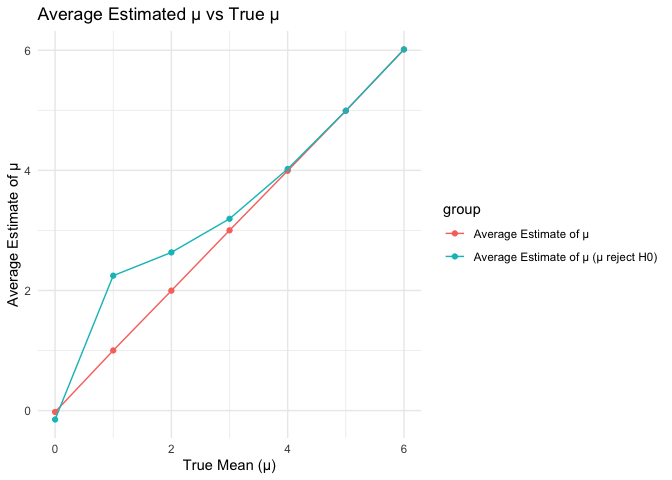
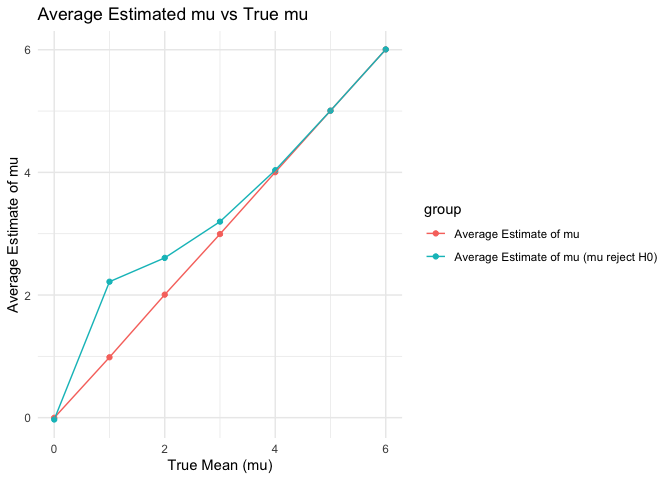
update

diff --git a/p8105_hw5_jc6422.md b/p8105_hw5_jc6422.md
@@ -37,16 +37,16 @@ results
     ## # A tibble: 49 × 2
     ##    group_size probability
     ##         <int>       <dbl>
-    ##  1          2      0.0034
-    ##  2          3      0.0072
-    ##  3          4      0.0171
-    ##  4          5      0.0247
-    ##  5          6      0.0407
-    ##  6          7      0.0521
-    ##  7          8      0.0718
-    ##  8          9      0.096 
-    ##  9         10      0.121 
-    ## 10         11      0.138 
+    ##  1          2      0.0026
+    ##  2          3      0.0083
+    ##  3          4      0.0168
+    ##  4          5      0.0281
+    ##  5          6      0.0402
+    ##  6          7      0.0537
+    ##  7          8      0.0725
+    ##  8          9      0.0978
+    ##  9         10      0.118 
+    ## 10         11      0.141 
     ## # ℹ 39 more rows
 
 Make a plot showing the probability as a function of group size.
@@ -117,7 +117,7 @@ the test.
 ggplot(df1, aes(x = mu, y = proportion)) +
   geom_point() +
   geom_line() +
-  labs(x = "True Mean (μ)", y = "Power") +
+  labs(x = "True Mean (mu)", y = "Power") +
   ggtitle("Power vs Effect Size") +
   theme_minimal()
 ```
@@ -127,7 +127,7 @@ ggplot(df1, aes(x = mu, y = proportion)) +
 From this figure, we can observe that the larger the effect size, the
 higher the power.
 
-Calculate the average estimate of μ
+Calculate the average estimate of mu
 
 ``` r
 df2 = result %>%
@@ -135,19 +135,19 @@ df2 = result %>%
   summarise(estimate = mean(estimate))
 ```
 
-Make a plot showing the average estimate of μ and true μ
+Make a plot showing the average estimate of mu and true mu
 
 ``` r
 ggplot(df2, aes(x = mu, y = estimate)) +
   geom_point() +
   geom_line() +
-  labs(x = "True Mean (μ)", y = "Average Estimate of μ") +
-  ggtitle("Average Estimated μ vs True μ") +
+  labs(x = "True Mean (mu)", y = "Average Estimate of mu") +
+  ggtitle("Average Estimated mu vs True mu") +
   theme_minimal()
 ```
 
 ![](p8105_hw5_jc6422_files/figure-gfm/unnamed-chunk-8-1.png)<!-- -->
-Calculate the average estimate of μ only in samples for which the null
+Calculate the average estimate of mu only in samples for which the null
 was rejected.
 
 ``` r
@@ -161,21 +161,21 @@ Make a plot overlay on the first plot
 
 ``` r
 df = rbind(df2, df3)
-df$group = c(rep("Average Estimate of μ", 7), rep("Average Estimate of μ (μ reject H0)", 7))
+df$group = c(rep("Average Estimate of mu", 7), rep("Average Estimate of mu (mu reject H0)", 7))
 
 ggplot(df, aes(x = mu, y = estimate, color = group, group = group)) +
   geom_point() +
   geom_line() +
-  labs(x = "True Mean (μ)", y = "Average Estimate of μ") +
-  ggtitle("Average Estimated μ vs True μ") +
+  labs(x = "True Mean (mu)", y = "Average Estimate of mu") +
+  ggtitle("Average Estimated mu vs True mu") +
   theme_minimal()
 ```
 
 ![](p8105_hw5_jc6422_files/figure-gfm/unnamed-chunk-10-1.png)<!-- -->
 
-From this figure, we can see that the the sample average of μ across
+From this figure, we can see that the the sample average of mu across
 tests for which the null is rejected approximately is not equal to the
-true value of μ. Because only those samples with large effects are more
+true value of mu. Because only those samples with large effects are more
 likely to be rejected, the average of these samples with large effects
 will be larger than the true value.
 
@@ -187,23 +187,22 @@ Load the data
 data = read_csv("homicide-data.csv")
 ```
 
-In this dataset, there are 50 unique cities. The number of homicides
-with an unsolved status (i.e., marked as “Closed without arrest” or
-“Open/No arrest”) is 26505. The variables are uid, reported_date,
-victim_last, victim_first, victim_race, victim_age, victim_sex, city,
-state, lat, lon, disposition
+In this dataset, there are 50 unique cities. There are
+52179observations. There are 12 variables. The variables are uid,
+reported_date, victim_last, victim_first, victim_race, victim_age,
+victim_sex, city, state, lat, lon, disposition
 
 Create a `city_state` variable and then summarize within cities.
 
 ``` r
-data_summary = data %>%
+summary = data %>%
   mutate(city_state = str_c(city, ", ", state)) %>%
   group_by(city_state) %>%
   summarize(
     total_homicides = n(),
     unsolved_homicides = sum(disposition %in% c("Closed without arrest", "Open/No arrest"))
   )
-data_summary
+summary
 ```
 
     ## # A tibble: 51 × 3
@@ -225,23 +224,57 @@ For the city of Baltimore, MD, use `pop.test` function to estimate the
 proportion of homicides that are unsolved.
 
 ``` r
-baltimore_data = data_summary %>% filter(city_state == "Baltimore, MD")
+baltimore_data = summary %>% 
+  filter(city_state == "Baltimore, MD") 
+  
 baltimore_test = prop.test(baltimore_data$unsolved_homicides, baltimore_data$total_homicides)
-baltimore_result = broom::tidy(baltimore_test)
-
-baltimore_result
+baltimore_test
 ```
 
-    ## # A tibble: 1 × 8
-    ##   estimate statistic  p.value parameter conf.low conf.high method    alternative
-    ##      <dbl>     <dbl>    <dbl>     <int>    <dbl>     <dbl> <chr>     <chr>      
-    ## 1    0.646      239. 6.46e-54         1    0.628     0.663 1-sample… two.sided
+    ## 
+    ##  1-sample proportions test with continuity correction
+    ## 
+    ## data:  baltimore_data$unsolved_homicides out of baltimore_data$total_homicides, null probability 0.5
+    ## X-squared = 239.01, df = 1, p-value < 2.2e-16
+    ## alternative hypothesis: true p is not equal to 0.5
+    ## 95 percent confidence interval:
+    ##  0.6275625 0.6631599
+    ## sample estimates:
+    ##         p 
+    ## 0.6455607
+
+Apply `broom::tidy` to this project and pull the estimated proportion
+and confidence intervals.
+
+``` r
+baltimore_result = broom::tidy(baltimore_test)
+
+estimate_prop = baltimore_result$estimate
+estimate_prop
+```
+
+    ##         p 
+    ## 0.6455607
+
+``` r
+conf_low = baltimore_result$conf.low
+conf_low
+```
+
+    ## [1] 0.6275625
+
+``` r
+conf_high = baltimore_result$conf.high
+conf_high
+```
+
+    ## [1] 0.6631599
 
 Run `prop.test` for each of the cities in the dataset, and create a tidy
 dataframe with estimated proportions and CIs for each city.
 
 ``` r
-city_results = data_summary %>%
+city = summary %>%
   mutate(
     test_result = purrr::map2(unsolved_homicides, total_homicides, ~ prop.test(.x, .y)),
     tidy_result = purrr::map(test_result, broom::tidy)
@@ -249,7 +282,7 @@ city_results = data_summary %>%
   unnest(tidy_result) %>%
   select(city_state, estimate, conf.low, conf.high)
 
-city_results
+city
 ```
 
     ## # A tibble: 51 × 4
@@ -270,19 +303,19 @@ city_results
 Create a plot that shows the estimates and CIs for each city.
 
 ``` r
-ggplot(city_results, aes(x = reorder(city_state, estimate), y = estimate)) +
+ggplot(city, aes(x = reorder(city_state,estimate), y = estimate)) +
   geom_point() +
   geom_errorbar(aes(ymin = conf.low, ymax = conf.high), width = 0.3) +
   coord_flip() +
   labs(
     title = "Proportion of Unsolved Homicides by City",
     x = "City",
-    y = "Proportion of Unsolved Homicides"
+    y = "Estimated Proportion of Unsolved Homicides"
   ) +
   theme_minimal()
 ```
 
-![](p8105_hw5_jc6422_files/figure-gfm/unnamed-chunk-15-1.png)<!-- -->
+![](p8105_hw5_jc6422_files/figure-gfm/unnamed-chunk-18-1.png)<!-- -->
 
 This plot shows the proportion of unsolved homicides for various U.S.
 cities. Chicago, IL, have the highest proportions of unsolved homicides,
